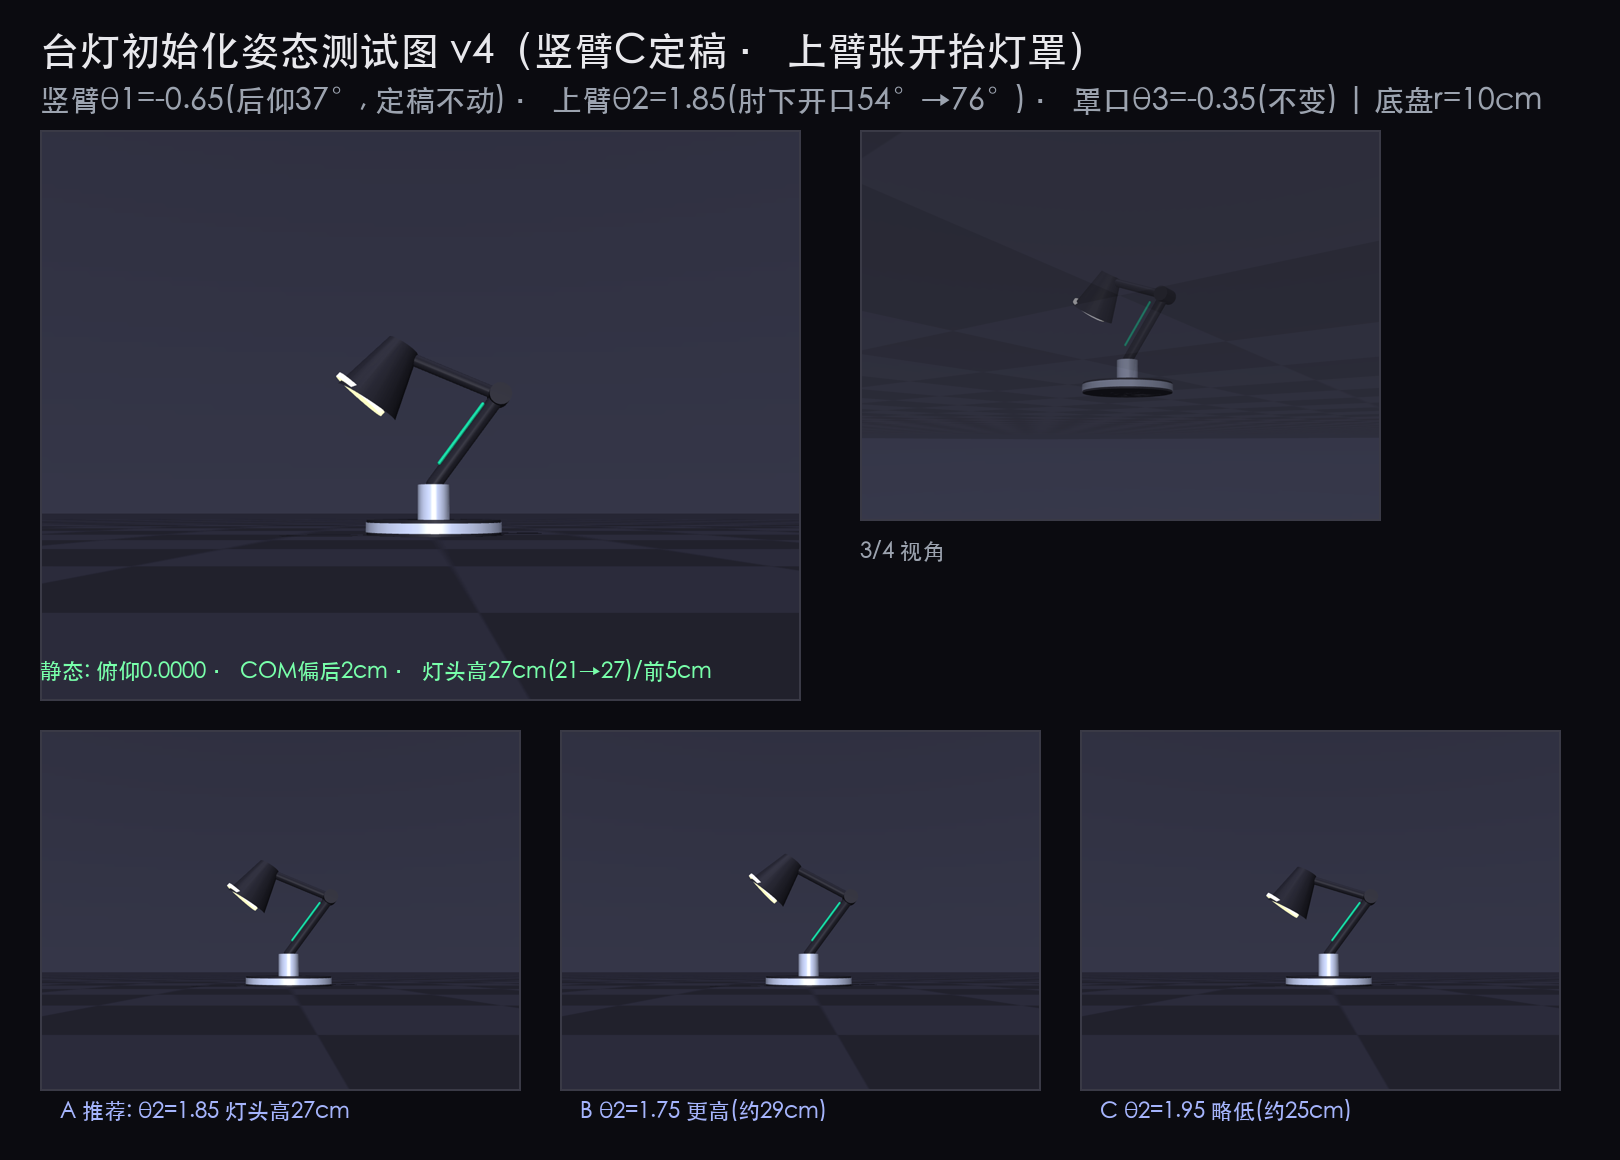
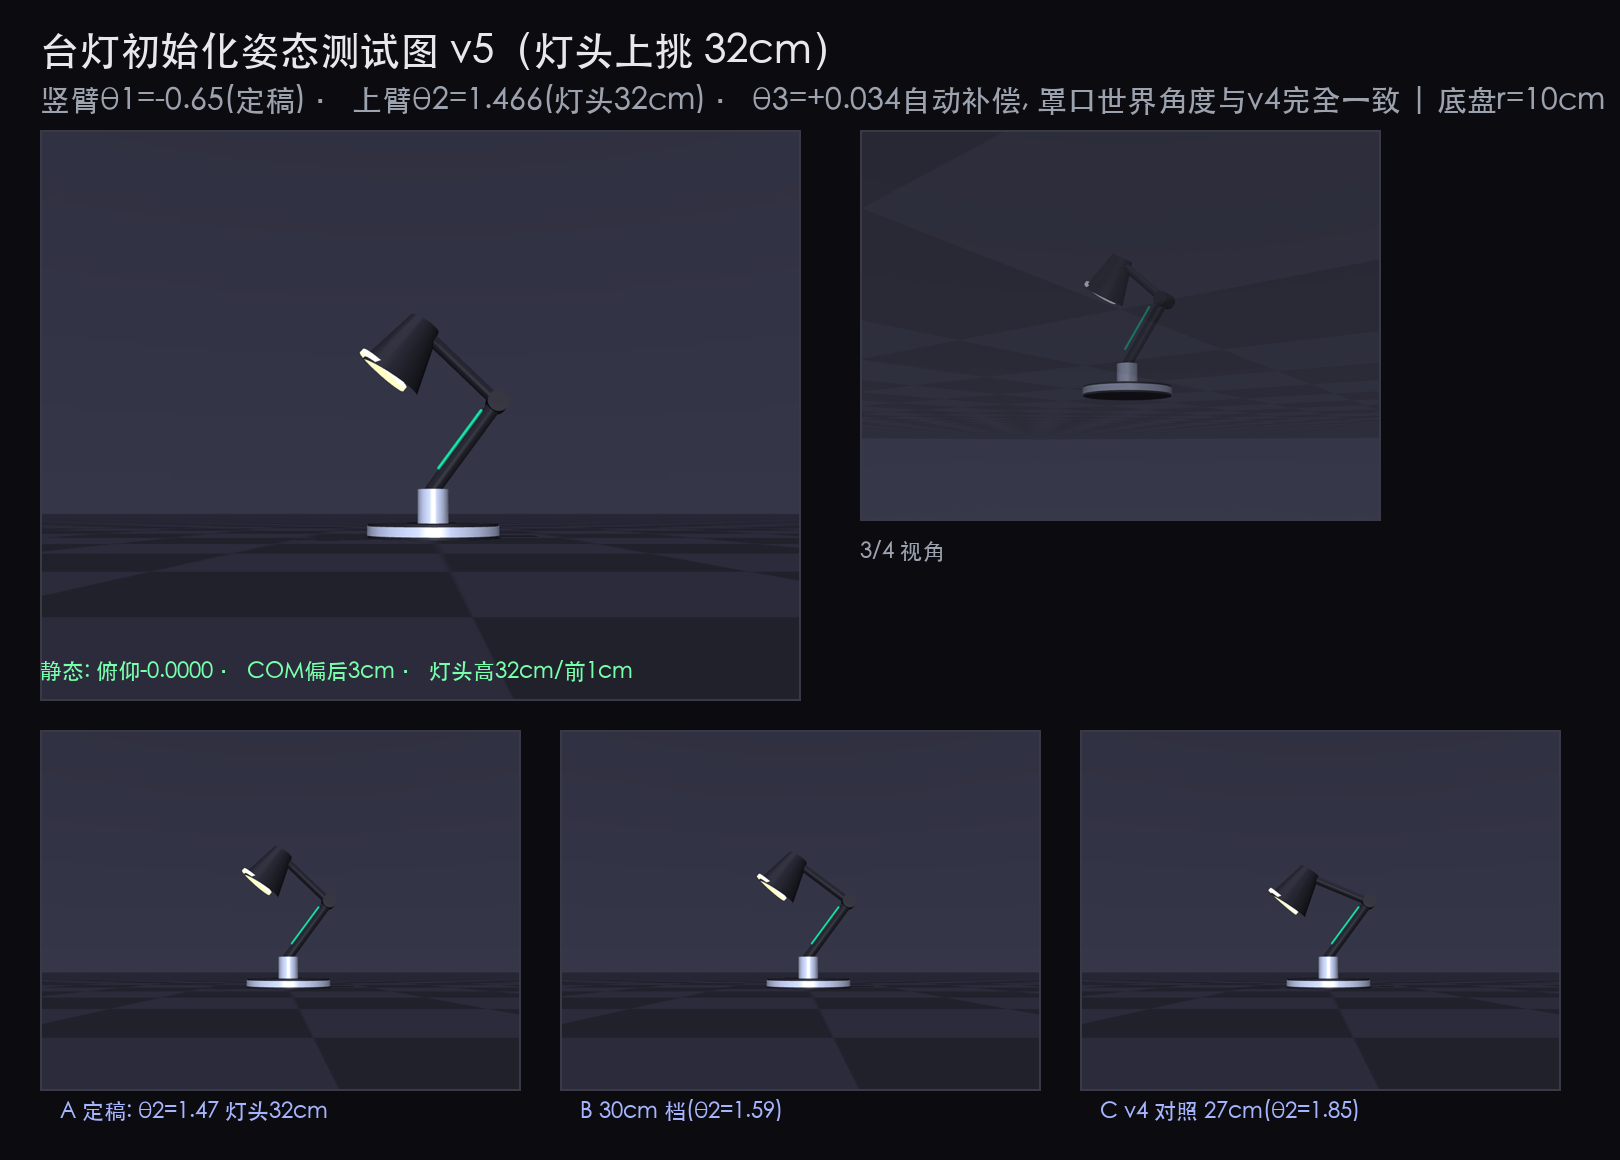
feature(pixar-lamp-jump-v2): 姿态v5 — 灯头上挑32cm(θ2=1.466, θ3=+0.034自动补偿保持罩口世界角度), 附30cm备选与27cm对照

diff --git a/embedded/pixar-lamp/sim/lamp_sim.py b/embedded/pixar-lamp/sim/lamp_sim.py
@@ -464,7 +464,7 @@ class JumpControllerV2:
     repeat=True: 落地稳定后自动进入下一跳(移动任务)。"""
 
     PHASE_SETTLE, PHASE_FIRE, PHASE_FLIGHT, PHASE_LAND, PHASE_STAND, PHASE_HOLD = 0, 1, 2, 3, 4, 5
-    STAND_POSE = (-0.65, 1.85, -0.35)  # 斜倚问号·开口版: 竖臂后仰37°(C定稿), 上臂张开θ2=1.85把灯罩抬高, 罩口朝下前不变
+    STAND_POSE = (-0.65, 1.466, 0.034)  # 定稿: 竖臂后仰37°, 上臂θ2=1.47灯头32cm, θ3补偿+0.38保持罩口世界角度朝下前
 
     def __init__(self, p, repeat=False, stand_after=True, stop_t=None):
         self.p0 = np.array(p, dtype=float)
